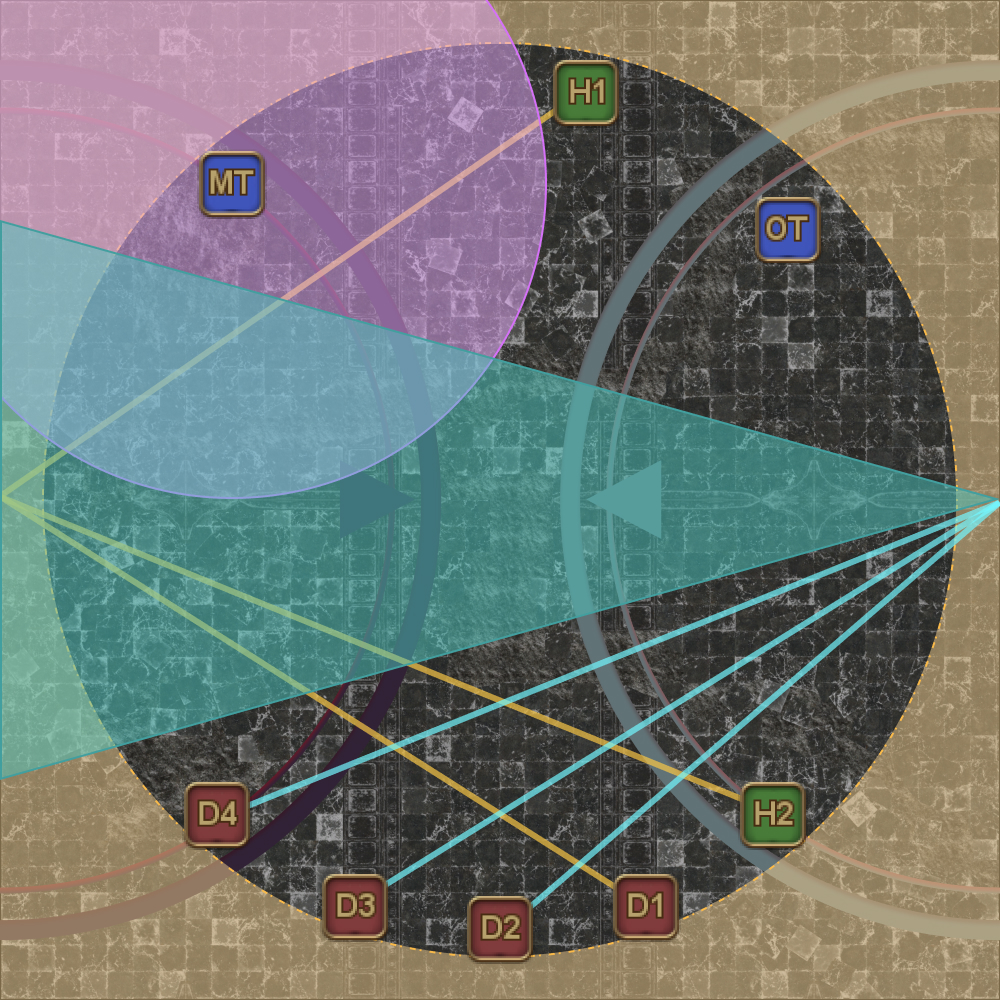
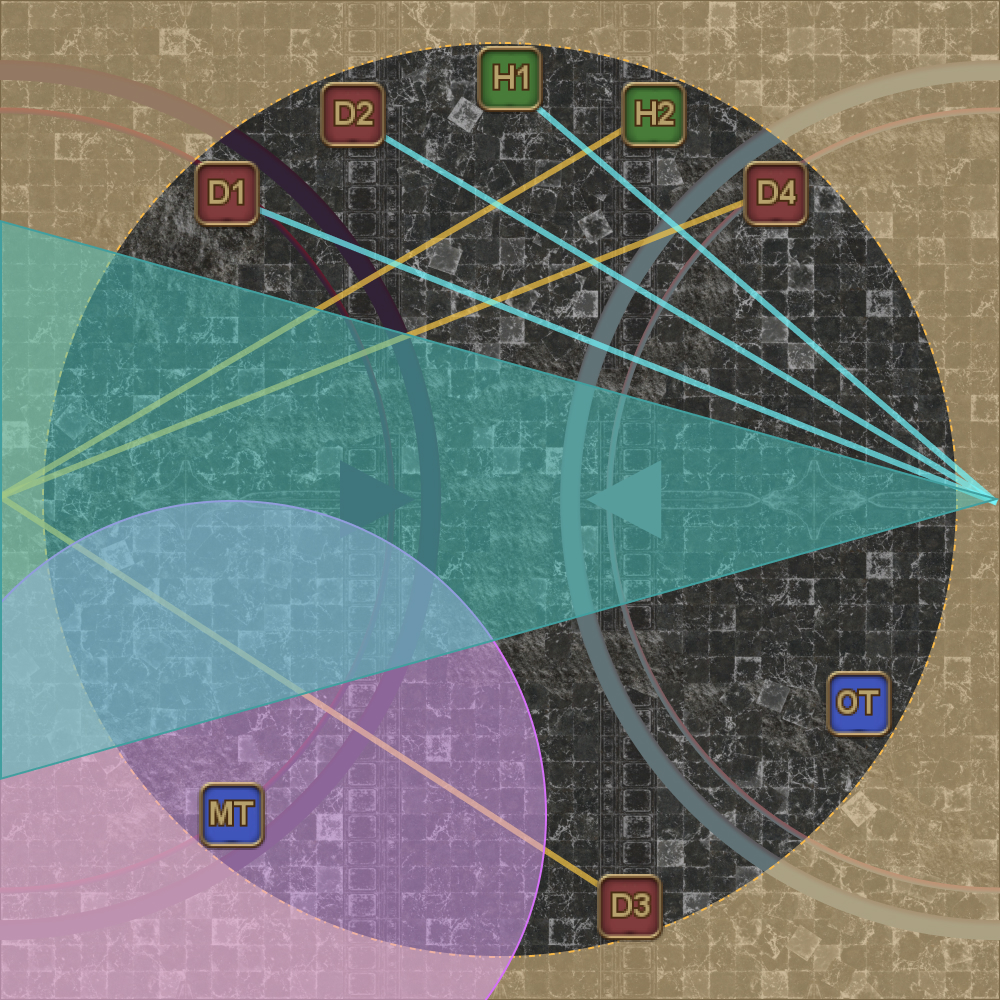
Remove Wroth Flames markers from cheatsheet, update Wyrmsbreath #2 strat to 5-1 (D3 south)

diff --git a/ultimates/dsr/en/06_double_dragons.md b/ultimates/dsr/en/06_double_dragons.md
@@ -42,7 +42,7 @@ If you are already familiar with the Double Dragons phase, and just need a quick
     <td><b>Wyrmsbreath #2</b></td>
     <td>
       <ul>
-        <li>1-5, H1 north</li>
+        <li>5-1, D3 south</li>
       </ul>
     </td>
   </tr>
@@ -252,8 +252,10 @@ The second half is a rehash of the first, with slightly different spins on the s
       <p><b>4. Wyrmsbreath #2</b></p>
       <p>This time, we <b>do not</b> want to stack opposite tethers.</p>
       <ul>
-        <li><b>H1:</b> Go north, and <b>move towards a dragon whose mouth is glowing</b>.</li>
-        <li><b>All other non-tanks:</b> Spread out along the south edge.</li>
+        <li><b>MT:</b> SW if you get the single-target tankbuster (by Nidhogg).</li>
+        <li><b>ST:</b> SE if you get the single-target tankbuster (by Hraesvelgr).</li>
+        <li><b>D3:</b> Go south, and <b>move towards a dragon whose mouth is glowing</b>.</li>
+        <li><b>All other non-tanks:</b> Spread out along the <b>north</b> edge.</li>
       </ul>
       <p><em>(In this example, Hraesvelgr's mouth is glowing).</em></p>
     </td>

diff --git a/ultimates/dsr/README.md b/ultimates/dsr/README.md
@@ -17,7 +17,7 @@ Elemental's DSR PF strat is still evolving. Use the following macros as a base t
 - [**Nidhogg**](en/03_nidhogg.md): Easthogg
 - [**Eyes**](en/04_eyes.md): T/H red, DPS blue
 - [**Alternate Timeline Thordan**](en/05_alternate_thordan.md): 2-2 Dooms North, Anchored Dooms
-- [**Double Dragons**](en/06_double_dragons.md): △, DTTMR, 1-5
+- [**Double Dragons**](en/06_double_dragons.md): △, DTTMR, 5-1
 - [**Dragonking Thordan**](en/07_dragonking_thordan.md): All 3-3-2
 
 ### BiS Notes
@@ -165,7 +165,7 @@ This is the macro for the bulk of the fight.
 【Wroth Flames】Spread → Nidhogg　
 　　　　　　　　　Stacks → Hraesvelgr
 【Hallowed Wings #2】MT → West　ST → East
-【Wyrmsbreath #2】(1-5) H1 north
+【Wyrmsbreath #2】(5-1) D3 south
 【Cauterize】(2x invuln) MT → West, ST → East
 ―《Dragonking Thordan》―――――――――――
 【Mitigations】
